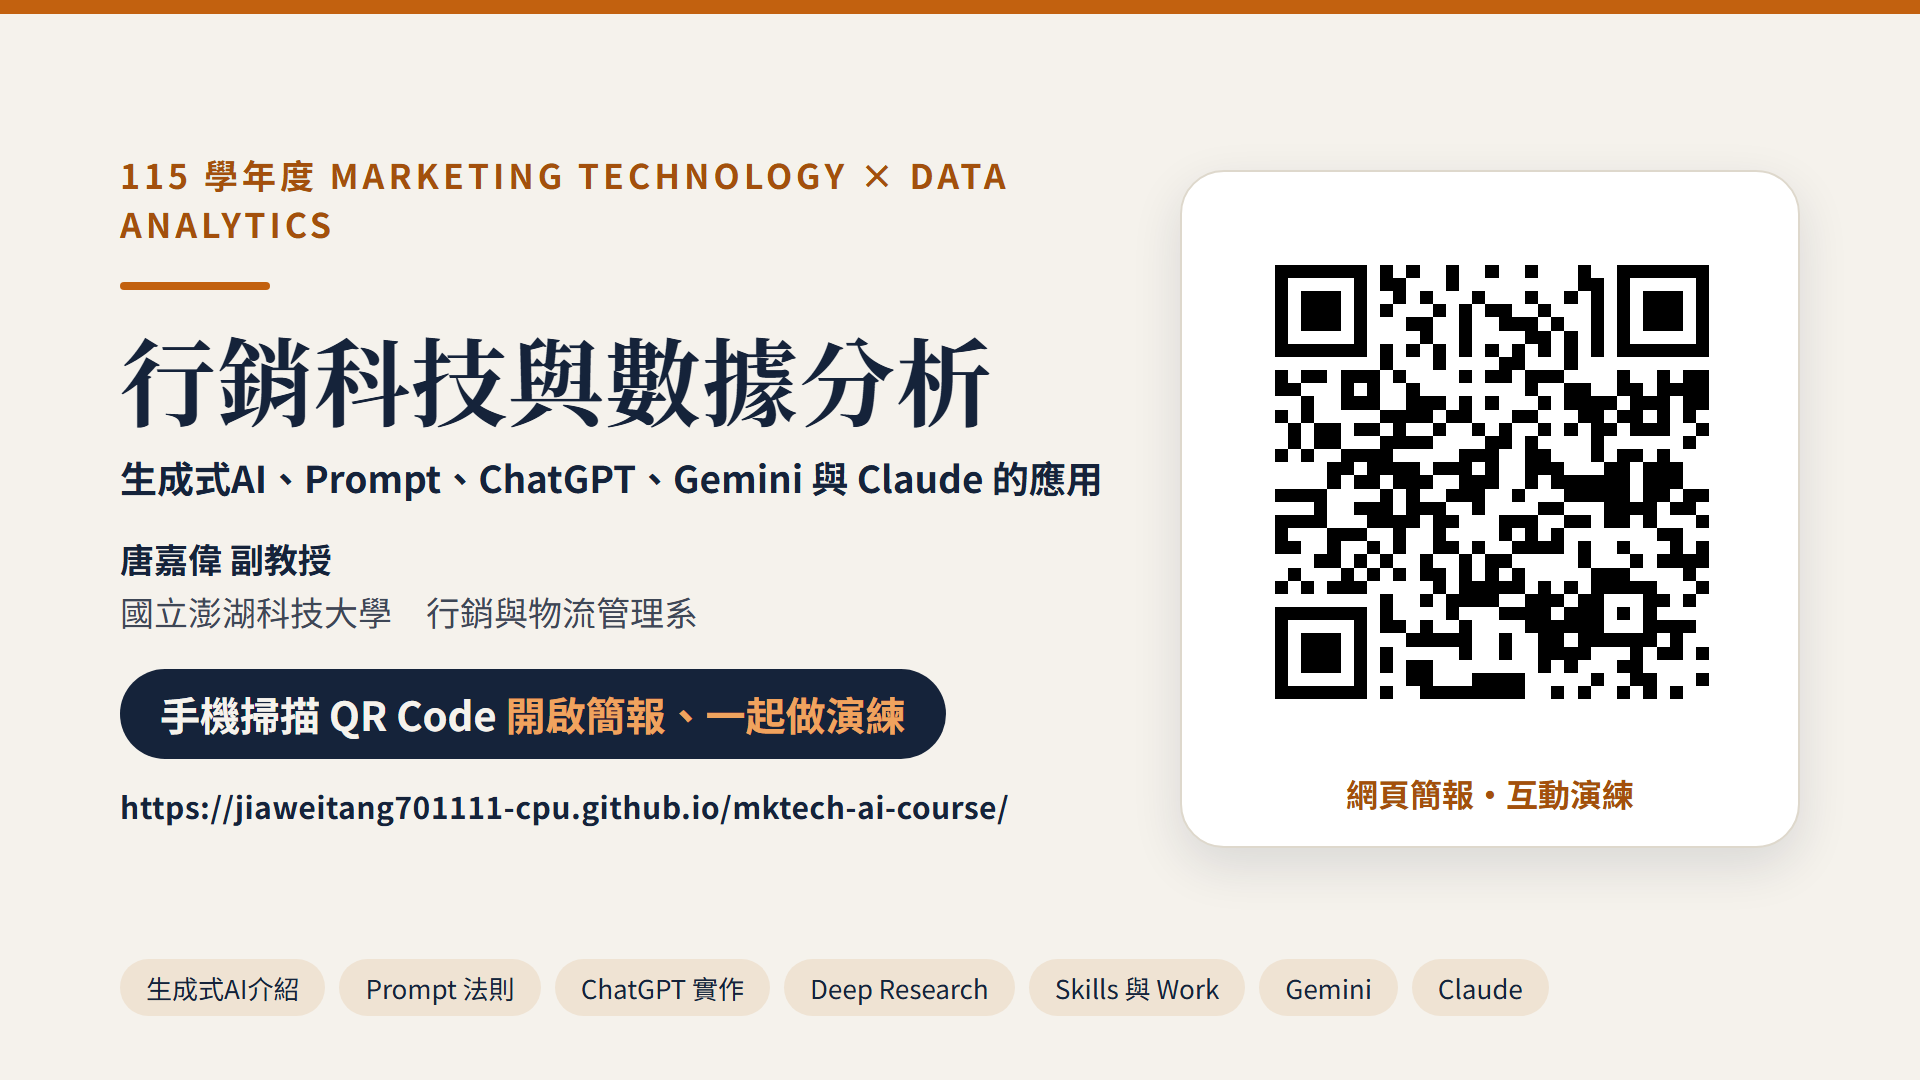
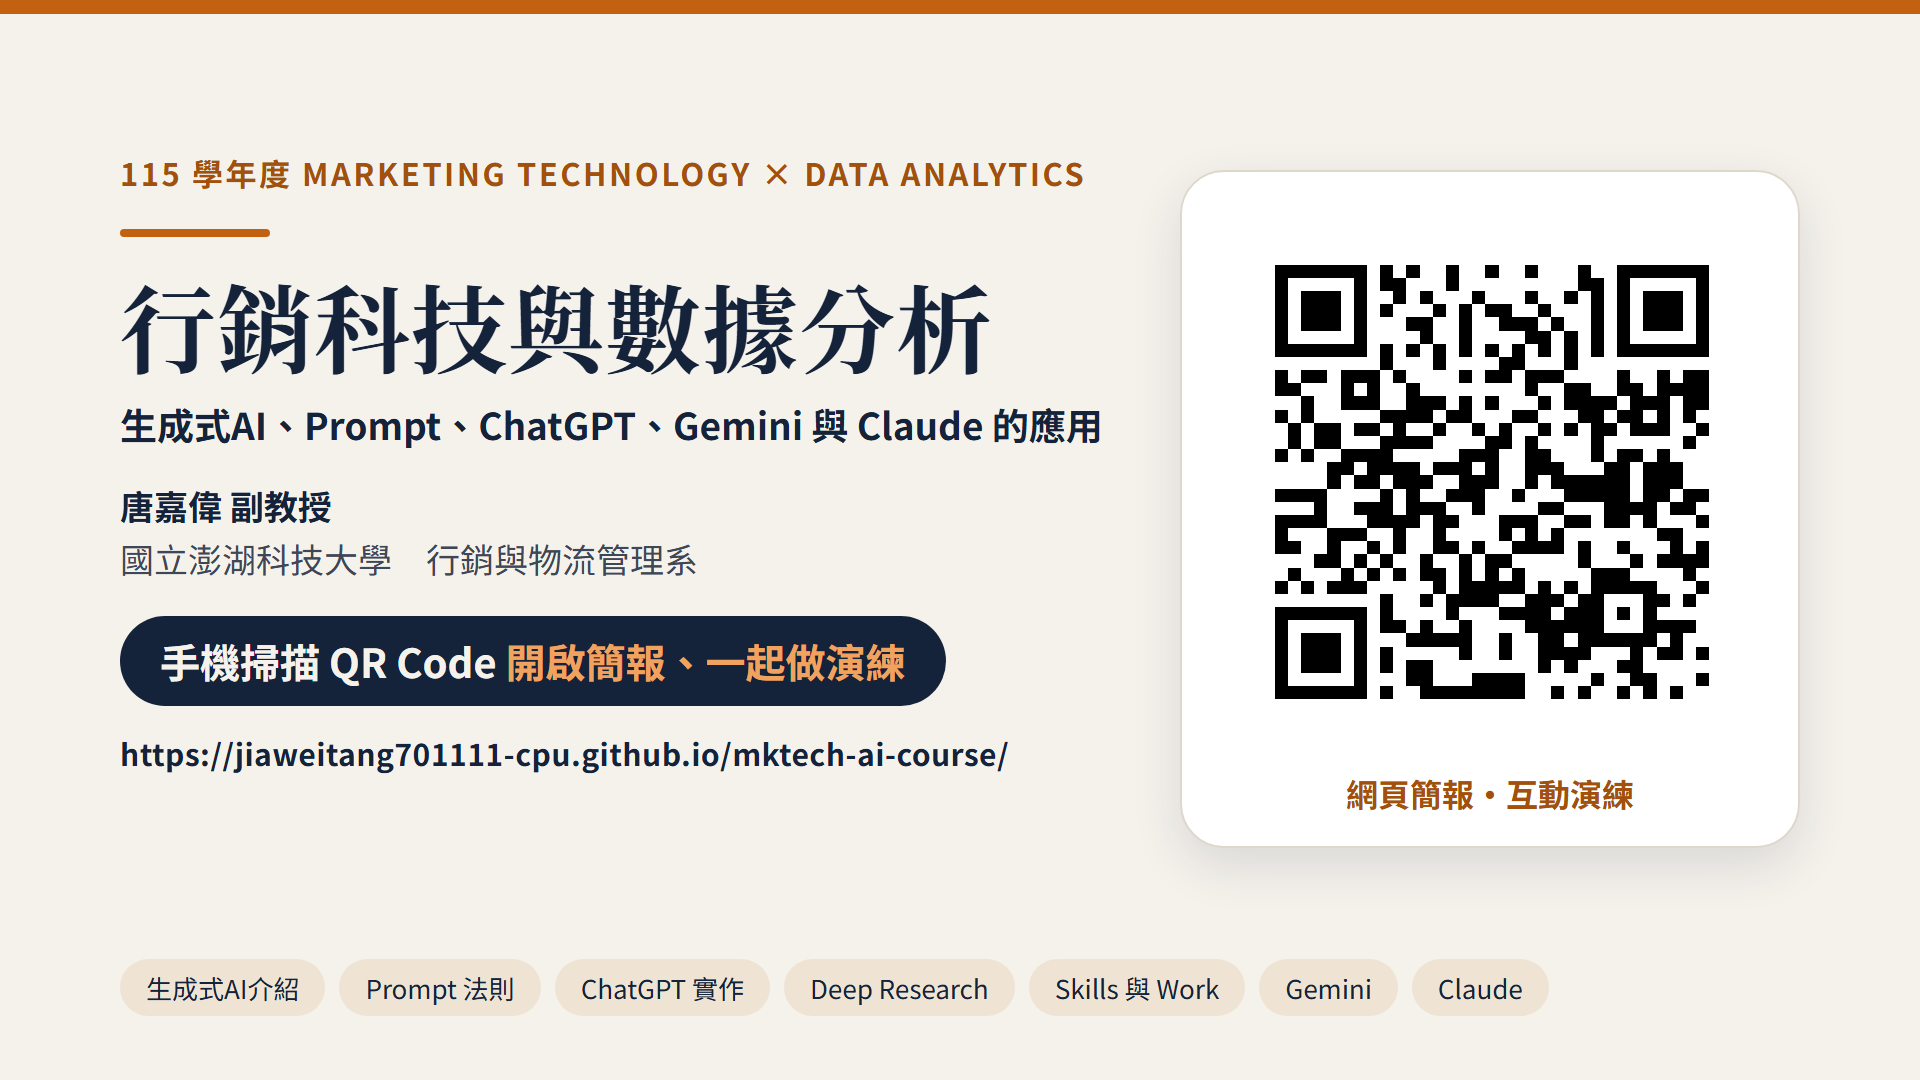
分享卡：副標改為單行

Changed region(s): [[0.0625, 0.1528, 0.5938, 0.7639]]

diff --git a/tools/share-card.html b/tools/share-card.html
@@ -11,7 +11,7 @@ html,body{width:1920px;height:1080px;overflow:hidden}
 body{background:#F5F2EC;color:#15233A;font-family:"Noto Sans TC","Microsoft JhengHei",sans-serif;position:relative}
 .bar{position:absolute;left:0;top:0;width:100%;height:14px;background:#C2610F}
 .left{position:absolute;left:120px;top:150px;width:1010px}
-.ey{font-size:34px;font-weight:700;letter-spacing:4px;color:#A3500C}
+.ey{font-size:31px;font-weight:700;letter-spacing:2.5px;color:#A3500C}
 .rule{width:150px;height:8px;border-radius:4px;background:#C2610F;margin:34px 0 30px}
 h1{font:700 96px/1.2 "Noto Serif TC","PMingLiU",serif;letter-spacing:1px}
 .sub{margin-top:18px;font-size:37px;font-weight:700;line-height:1.35}
